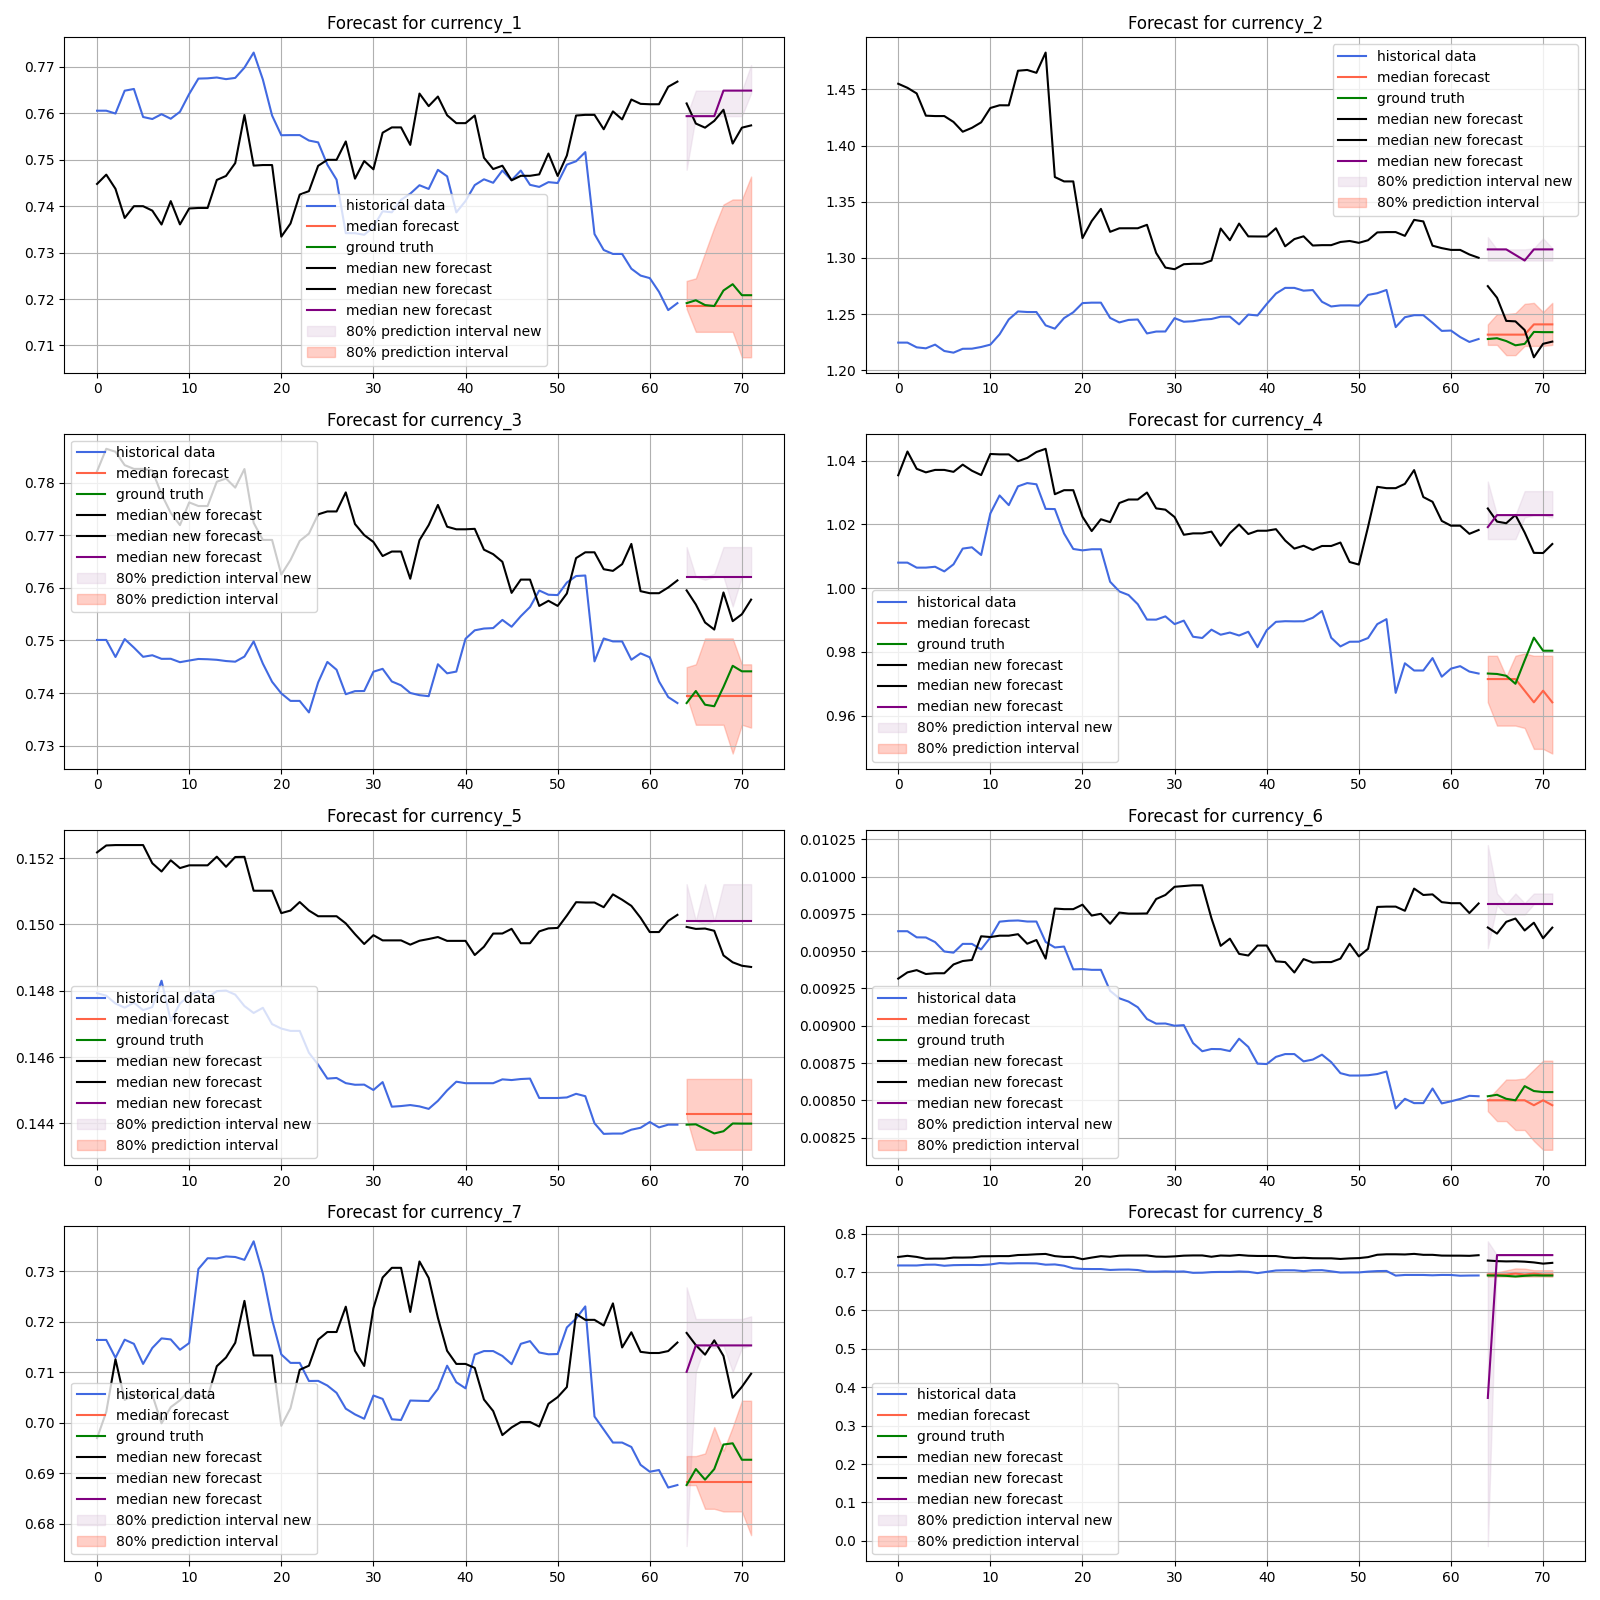
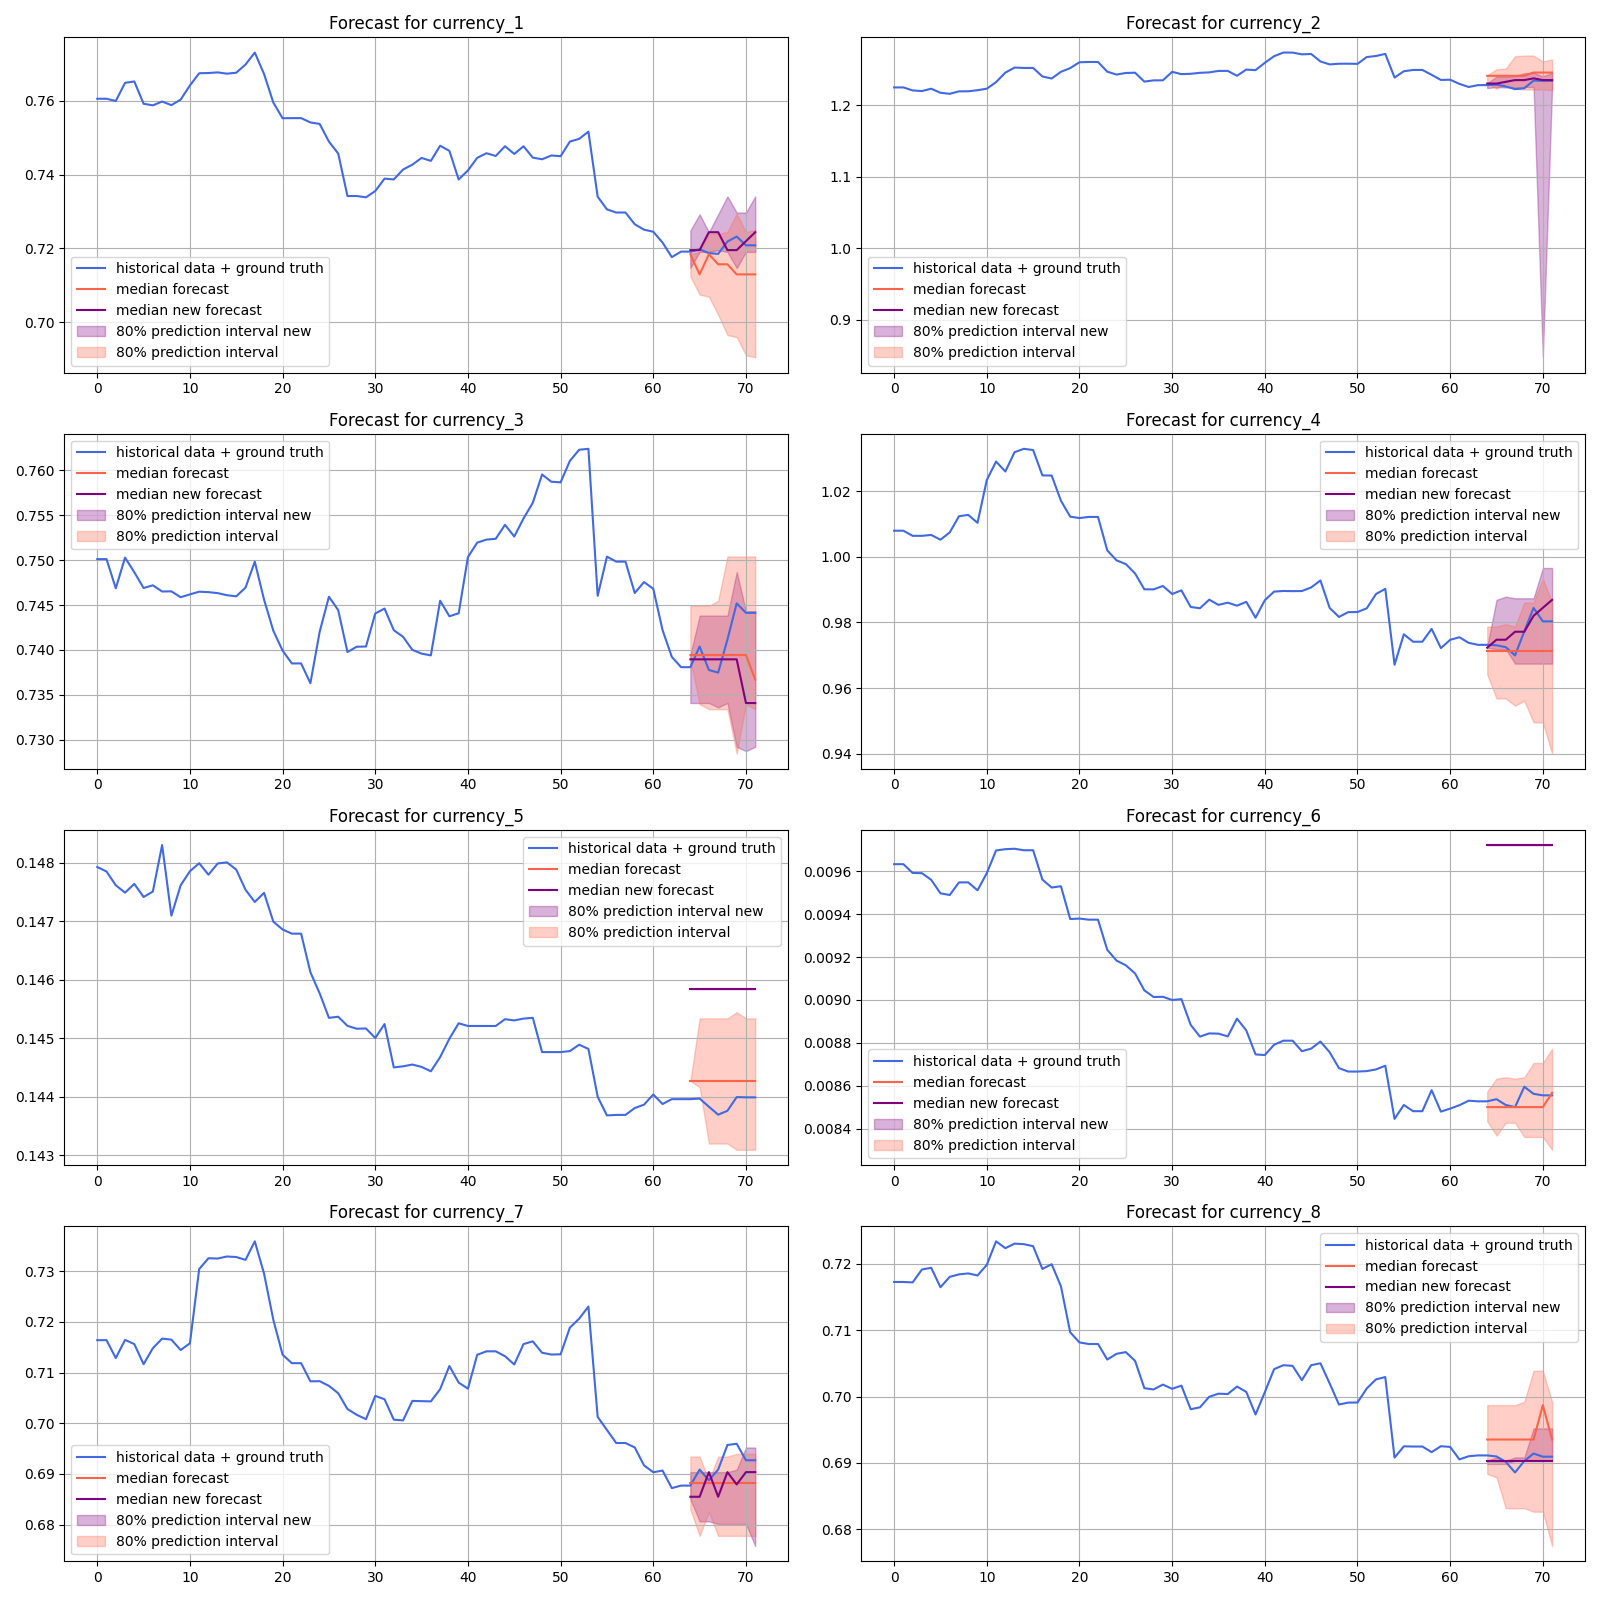
FIX forecast and new dataset creation

diff --git a/forecast.py b/forecast.py
@@ -5,6 +5,7 @@ from datasets import load_dataset, load_from_disk
 from utils import to_pandas
 import matplotlib.pyplot as plt
 import numpy as np
+import pdb
 
 def load_new_dataset():
     dataset = load_dataset('juantollo/newExchangeRate', split='train')
@@ -16,7 +17,6 @@ def load_and_prepare_data():
     df_new_dataset = load_new_dataset()
     ds_exchange_rate = load_dataset("autogluon/chronos_datasets", "exchange_rate", split="train")
     df_exchange_rate = to_pandas(ds_exchange_rate)
-    
     # Return both datasets
     return df_exchange_rate, df_new_dataset
 
@@ -27,7 +27,6 @@ def create_pipeline(model_name="amazon/chronos-t5-large", device="cuda"):
         device_map=device,
         torch_dtype=torch.bfloat16,
     )
-
 
 def make_forecast(pipeline, context_data, prediction_length=8, num_samples=20):
     """Generate the forecast using the pipeline."""
@@ -51,9 +50,12 @@ def plot_forecasts_for_all_currencies(df_exchange_rate, df_new_dataset, pipeline
         df_currency_context = df_currency.iloc[-72:-8].reset_index(drop=True)
         
         # Get the positions mod 8 + i for the new dataset
-        positions_mod_8 = np.arange(i, len(df_new_dataset), 8)
-        new_forecast = make_forecast(pipeline_new_model, df_new_dataset.iloc[positions_mod_8[-128:-64]], prediction_length=64, num_samples=20)
-        new_forecast_8_mod = new_forecast[..., ::8]
+        positions_mod_8 = np.arange(i, 64, 8)
+        ### FIX BUG ###
+        new_forecast = make_forecast(pipeline_new_model, df_new_dataset.iloc[-512:-64], prediction_length=64, num_samples=20)
+        # new_forecast = make_forecast(pipeline_new_model, df_new_dataset.iloc[positions_mod_8[-128:-64]], prediction_length=64, num_samples=20)
+
+        new_forecast_8_mod = new_forecast[:,:,positions_mod_8]
 
         # Make the forecast for the historical data
         forecast = make_forecast(pipeline_original_model, df_currency_context, prediction_length=8, num_samples=20)
@@ -65,13 +67,18 @@ def plot_forecasts_for_all_currencies(df_exchange_rate, df_new_dataset, pipeline
 
         # Plotting on the appropriate subplot
         ax = axes[i // 2, i % 2]  # Locate the correct subplot
-        ax.plot(df_currency_context.index, df_currency_context["target"], color="royalblue", label="historical data")
+        #pdb.set_trace()
+        # ax.plot(df_currency_context.index, df_currency_context["target"], color="royalblue", label="historical data")
+        # ax.plot(forecast_index, df_currency_true["target"].values, color="royalblue", label="ground truth")
+        # Combine the indices and target values from df_currency_context and df_currency_true
+        combined_index = np.concatenate([df_currency_context.index, forecast_index])
+        combined_target = np.concatenate([df_currency_context["target"].values, df_currency_true["target"].values])
+
+        # Plot the combined data
+        ax.plot(combined_index, combined_target, color="royalblue", label="historical data + ground truth")
         ax.plot(forecast_index, median, color="tomato", label="median forecast")
-        ax.plot(forecast_index, df_currency_true["target"].values, color="green", label="ground truth")
-        ax.plot(df_currency_context.index, df_new_dataset.iloc[positions_mod_8[-128:-64]]["target"], color="black", label="median new forecast")
-        ax.plot(forecast_index, df_new_dataset.iloc[positions_mod_8[-8:]]["target"], color="black", label="median new forecast")
         ax.plot(forecast_index, median_new, color="purple", label="median new forecast")
-        ax.fill_between(forecast_index, low_new, high_new, color="#D8BFD8", alpha=0.3, label="80% prediction interval new")
+        ax.fill_between(forecast_index, low_new, high_new, color="purple", alpha=0.3, label="80% prediction interval new")
         ax.fill_between(forecast_index, low, high, color="tomato", alpha=0.3, label="80% prediction interval")
         
         # Title and legend

diff --git a/test.py b/test.py
@@ -9,17 +9,19 @@ import subprocess
 sys.path.append(os.path.abspath(os.path.join(os.path.dirname(__file__), '..')))
 
 from utils import to_pandas
+import pdb
 
 class TestDataset(unittest.TestCase):
-
     def setUp(self):
         # Sample data to create a Hugging Face dataset
         self.dataset = load_dataset("autogluon/chronos_datasets", "exchange_rate", split="train")
+        self.newdataset = load_dataset("juantollo/newExchangeRate", split="train")
+        self.dataset_df = to_pandas(self.dataset)
+        self.newdataset_df = to_pandas(self.newdataset)
 
     def test01_timestamp_consistency(self):
         # Convert dataset to a DataFrame for easier processing
         df = self.dataset.to_pandas()
-        
         # Group by 'id' to get timestamps for each series
         timestamp_groups = df.groupby('id')['timestamp'].apply(list)
         
@@ -33,6 +35,27 @@ class TestDataset(unittest.TestCase):
         
         print("All datasets have consistent timestamps.")
     
+    def test02_equal_transformation(self):
+        #pdb.set_trace()
+        for i in range (0,8):
+            #df = self.dataset_df[self.dataset_df["id"] == f"currency_{1}"]["target"].values
+            currency_id = f"currency_{i+1}"
+            # Filter data for the current currency in the original dataset
+            original_currency_values = self.dataset_df[self.dataset_df["id"] == currency_id]["target"].values
+
+            # Determine positions in the new dataset based on mod 8 logic
+            positions_mod_8 = np.arange(i, len(self.newdataset_df), 8)
+            
+            # Extract values from the new dataset at these positions
+            new_dataset_values_mod_8 = self.newdataset_df.iloc[positions_mod_8]["target"].values
+            
+            # Compare the values in the new dataset mod 8 positions with the original dataset
+            # Assertion for values at mod 8 positions
+            assert np.array_equal(
+                new_dataset_values_mod_8, 
+                original_currency_values[-len(new_dataset_values_mod_8):]
+            ), f"Mismatch found for Currency {i+1} at mod 8 positions."
+
     def test03_evaluate_exchange_rate(self):
         # Add the path to the scripts directory to the system path
         sys.path.append(os.path.abspath('../chronos-forecasting/scripts'))
@@ -70,4 +93,4 @@ class TestDataset(unittest.TestCase):
             self.fail(f"Evaluation script failed with error: {e}\n{e.stderr}")
 
 if __name__ == '__main__':
-    unittest.main(argv=['', 'TestDataset.test03_evaluate_exchange_rate'], exit=False)
+    unittest.main(argv=['', 'TestDataset.test02_equal_transformation'], exit=False)
